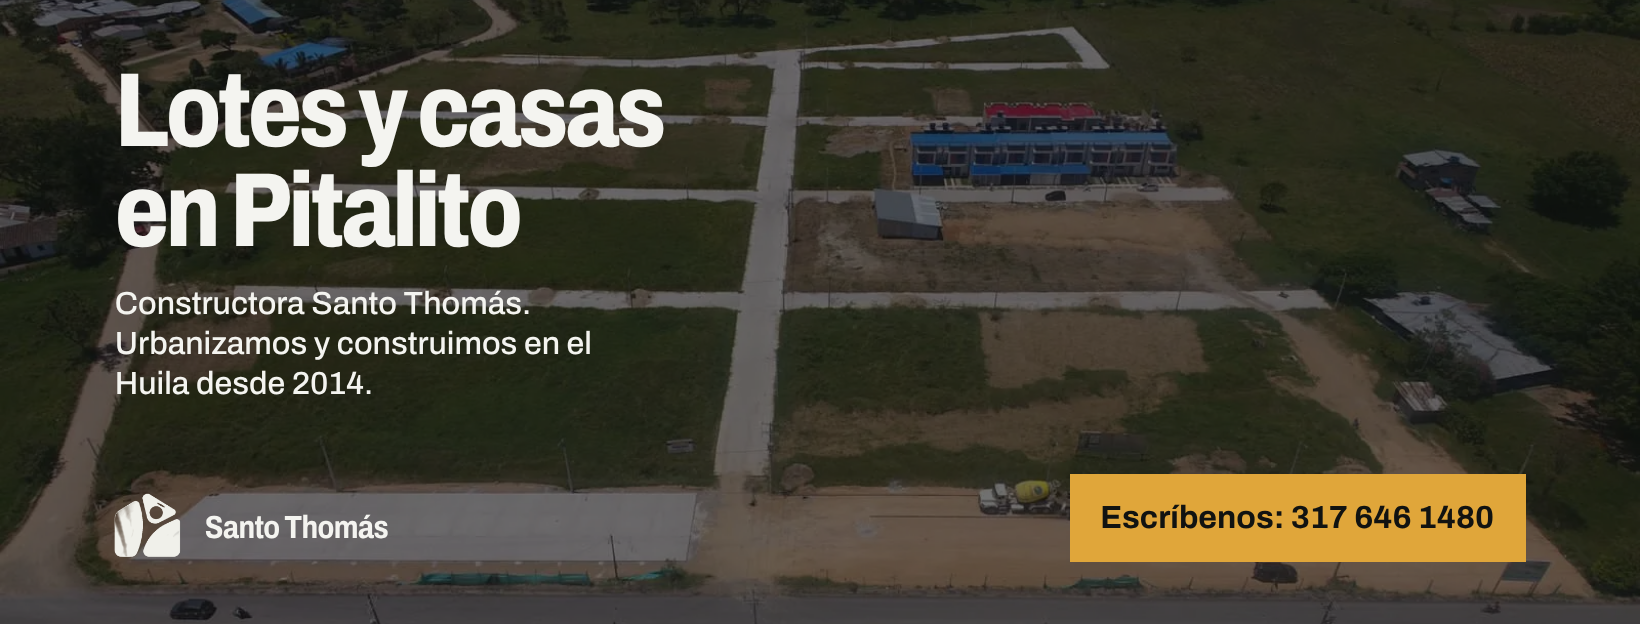
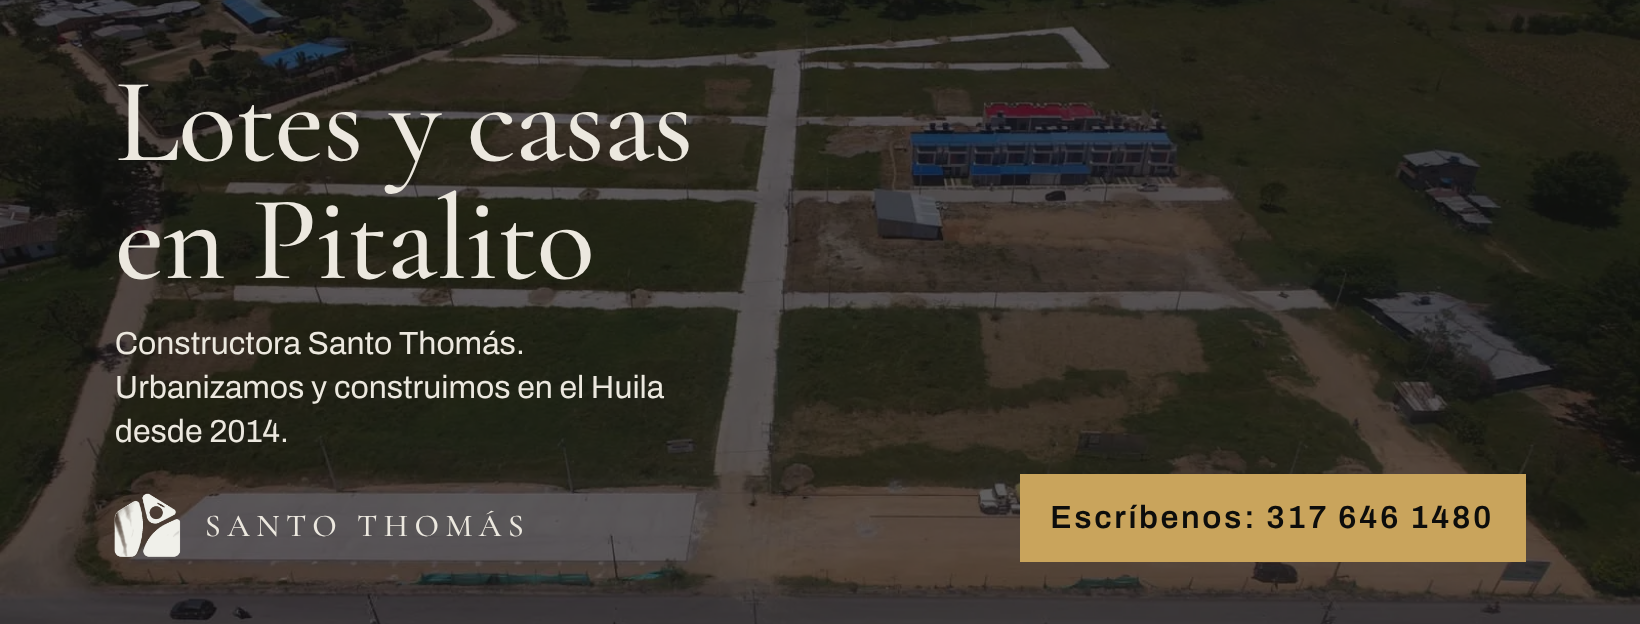
Restyle Santo Thomás redesign to a dark luxury-minimal look
Black ground, ivory text, muted gold accent and a display serif close to
the logo wordmark; full-screen hero photo; generative plan and banners
re-rendered in the same palette.

Claude-Session: https://claude.ai/code/session_01EuNx7qHGaqCun31qjyEdxN

diff --git a/santo-thomas/index.html b/santo-thomas/index.html
@@ -12,12 +12,12 @@
 <meta property="og:description" content="Lotes residenciales y comerciales, casas, locales y apartamentos en Pitalito, Huila. Desde 2014.">
 <meta property="og:image" content="https://www.constructurasantothomas.com/banners/foto-1200x630.png">
 <meta property="og:url" content="https://www.constructurasantothomas.com/">
-<meta name="theme-color" content="#111311">
+<meta name="theme-color" content="#0d0d0c">
 <link rel="icon" type="image/png" href="img/favicon.png">
 <link rel="apple-touch-icon" href="img/favicon.png">
 <link rel="preconnect" href="https://fonts.googleapis.com">
 <link rel="preconnect" href="https://fonts.gstatic.com" crossorigin>
-<link href="https://fonts.googleapis.com/css2?family=Archivo:wdth,wght@75..100,400..800&display=swap" rel="stylesheet">
+<link href="https://fonts.googleapis.com/css2?family=Cormorant+Garamond:wght@400;500;600&family=Archivo:wght@400;500;600&display=swap" rel="stylesheet">
 <link rel="preload" as="image" href="img/aerea-loteo.webp" imagesrcset="img/aerea-loteo-800.webp 800w, img/aerea-loteo.webp 1600w" imagesizes="100vw">
 <script type="application/ld+json">
 {
@@ -43,64 +43,67 @@
 </script>
 <style>
 :root{
-  --cal:#f4f4f0; --cal-2:#e8e8e1; --tinta:#111311; --campo:#1f3b2b; --campo-osc:#16271c;
-  --arena:#d9c9a0; --oro:#e0a63a; --oro-osc:#c98f24;
+  --cal:#ece8df; --cal-2:#dfdbd0; --tinta:#0d0d0c; --campo:#1f1f1c; --campo-osc:#151513;
+  --arena:#cfc6ae; --oro:#c9a45c; --oro-osc:#b08d48;
   --m:clamp(20px,2.2vw,32px);
-  --seccion:clamp(88px,12vw,180px);
-  --t-display:clamp(40px,8.6vw,132px);
-  --t-h2:clamp(31px,4.8vw,70px);
+  --seccion:clamp(96px,14vw,210px);
+  --t-display:clamp(46px,8.4vw,136px);
+  --t-h2:clamp(36px,5vw,76px);
   --t-decl:clamp(22px,2.3vw,34px);
   --t-texto:18px; --t-nota:15px;
   --salir:cubic-bezier(.2,.7,.2,1);
 }
 *,*::before,*::after{box-sizing:border-box}
 html{scroll-behavior:smooth;-webkit-text-size-adjust:100%}
-body{margin:0;background:var(--cal);color:var(--tinta);font-family:Archivo,system-ui,sans-serif;font-size:var(--t-texto);line-height:1.5;font-stretch:100%}
+body{margin:0;background:var(--tinta);color:var(--cal);font-family:Archivo,system-ui,sans-serif;font-size:var(--t-texto);line-height:1.6;font-weight:400}
 img{display:block;max-width:100%;height:auto}
+body{position:relative}
 a{color:inherit}
 h1,h2,p,figure,ul{margin:0}
 ul{padding:0;list-style:none}
-h1,h2{font-weight:750;font-stretch:84%;letter-spacing:-.035em;line-height:.96;text-wrap:balance}
+h1,h2{font-family:'Cormorant Garamond',Georgia,serif;font-weight:500;letter-spacing:-.012em;line-height:1;text-wrap:balance}
 h1{font-size:var(--t-display)}
 h2{font-size:var(--t-h2)}
-.decl{font-size:var(--t-decl);line-height:1.22;font-weight:500;letter-spacing:-.015em;max-width:36ch}
+.decl{font-family:'Cormorant Garamond',Georgia,serif;font-size:calc(var(--t-decl)*1.12);line-height:1.2;font-weight:400;max-width:34ch}
 .nota{font-size:var(--t-nota);line-height:1.4}
 .wrap{padding-inline:var(--m)}
 .seccion{padding-block:var(--seccion)}
 :focus-visible{outline:3px solid var(--oro);outline-offset:3px}
 ::selection{background:var(--oro);color:var(--tinta)}
 .salto{position:absolute;left:-999px}
-.salto:focus{left:var(--m);top:8px;background:var(--tinta);color:var(--cal);padding:10px 14px;z-index:9}
+.salto:focus{left:var(--m);top:8px;background:var(--cal);color:var(--tinta);padding:10px 14px;z-index:9}
 
 /* Botón: plano, cuadrado, un solo color */
-.btn{display:inline-flex;align-items:center;justify-content:center;min-height:52px;padding:0 26px;background:var(--oro);color:var(--tinta);font-weight:650;font-size:17px;text-decoration:none;border:0;cursor:pointer;font-family:inherit;transition:background .18s,transform .12s}
+.btn{display:inline-flex;align-items:center;justify-content:center;min-height:54px;padding:0 30px;background:var(--oro);color:var(--tinta);font-weight:600;font-size:13px;letter-spacing:.16em;text-transform:uppercase;text-decoration:none;border:0;cursor:pointer;font-family:inherit;transition:background .18s,transform .12s}
 .btn:hover{background:var(--oro-osc)}
 .btn:active{transform:translateY(2px)}
 .enlace{text-decoration:underline;text-decoration-thickness:2px;text-underline-offset:4px;transition:text-decoration-color .18s}
 .enlace:hover{text-decoration-color:var(--oro)}
 
-/* Barra */
-.barra{display:flex;align-items:center;gap:var(--m);padding:14px var(--m);flex-wrap:wrap}
-.barra .marca{margin-right:auto;display:flex;align-items:center;gap:12px;text-decoration:none;font-weight:700;font-stretch:84%;font-size:21px;letter-spacing:-.02em}
-.barra .marca img{width:40px;height:auto}
-.barra nav ul{display:flex;gap:clamp(16px,2.4vw,36px)}
-.barra nav a{text-decoration:none;font-size:17px;padding:8px 0;display:block}
-.barra nav a:hover{text-decoration:underline;text-decoration-thickness:2px;text-underline-offset:6px}
-.barra .btn{min-height:44px;padding:0 18px;font-size:16px}
+/* Barra: sobre la foto de portada, sin caja */
+.barra{position:absolute;top:0;left:0;right:0;z-index:3;display:flex;align-items:center;gap:var(--m);padding:22px var(--m);flex-wrap:wrap}
+.barra .marca{margin-right:auto;display:flex;align-items:center;gap:14px;text-decoration:none;font-family:'Cormorant Garamond',Georgia,serif;font-weight:500;font-size:21px;letter-spacing:.2em;text-transform:uppercase}
+.barra .marca img{width:38px;height:auto}
+.barra nav ul{display:flex;gap:clamp(18px,2.6vw,40px)}
+.barra nav a{text-decoration:none;font-size:13px;letter-spacing:.16em;text-transform:uppercase;padding:8px 0;display:block;transition:color .18s}
+.barra nav a:hover{color:var(--oro)}
+.barra .btn{min-height:44px;padding:0 20px;font-size:12px;background:transparent;color:var(--cal);box-shadow:inset 0 0 0 1px var(--oro)}
+.barra .btn:hover{background:var(--oro);color:var(--tinta)}
 
-/* Portada */
-.portada{padding-top:clamp(20px,4vw,56px)}
-.portada .cabeza{display:grid;grid-template-columns:1fr;gap:28px;align-items:end;padding-bottom:clamp(24px,3vw,44px)}
-.portada .apoyo{display:grid;gap:22px;justify-items:start;max-width:34ch}
-.portada .foto{overflow:hidden;height:min(62vh,760px);min-height:300px;background:var(--campo)}
+/* Portada: la foto ocupa toda la pantalla; el texto abajo a la izquierda */
+.portada{position:relative;min-height:100svh;display:grid;align-items:end}
+.portada .foto{position:absolute;inset:0;overflow:hidden;background:var(--campo-osc)}
 .portada .foto img{width:100%;height:100%;object-fit:cover;object-position:50% 58%}
-@media(min-width:900px){.portada .cabeza{grid-template-columns:minmax(0,1.9fr) minmax(0,1fr)}}
+.portada .foto::after{content:"";position:absolute;inset:0;background:rgba(13,13,12,.62)}
+.portada .cabeza{position:relative;z-index:1;display:grid;grid-template-columns:1fr;gap:28px;align-items:end;padding-top:140px;padding-bottom:clamp(40px,7vh,88px)}
+.portada .apoyo{display:grid;gap:26px;justify-items:start;max-width:36ch}
+@media(min-width:900px){.portada .cabeza{grid-template-columns:minmax(0,1.7fr) minmax(0,1fr)}}
 
 /* Proyectos: cada uno con su propia composición */
 .titulo-sec{padding-bottom:clamp(32px,5vw,72px)}
 .proy{display:grid;gap:var(--m);grid-template-columns:repeat(12,minmax(0,1fr));align-items:start}
 .proy + .proy{margin-top:clamp(72px,9vw,140px)}
-.proy figure{overflow:hidden;background:var(--cal-2)}
+.proy figure{overflow:hidden;background:var(--campo)}
 .proy figure img{width:100%;height:100%;object-fit:cover;transition:transform .7s var(--salir)}
 .proy figure:hover img{transform:scale(1.03)}
 .proy .txt{display:grid;gap:18px;align-content:start}
@@ -124,7 +127,7 @@ h2{font-size:var(--t-h2)}
 }
 
 /* Torre: campo negro, la imagen vertical manda */
-.torre-sec{background:var(--tinta);color:var(--cal);margin-top:var(--seccion)}
+.torre-sec{background:var(--campo-osc);color:var(--cal)}
 .torre{display:grid;gap:var(--m);grid-template-columns:repeat(12,minmax(0,1fr));align-items:end}
 .torre > *{grid-column:1/-1}
 .torre figure{overflow:hidden}
@@ -138,7 +141,7 @@ h2{font-size:var(--t-h2)}
 }
 
 /* Obra: campo verde, tres fotos verticales del mismo corte */
-.obra-sec{background:var(--campo);color:var(--cal)}
+.obra-sec{background:var(--tinta);color:var(--cal)}
 .obra-cab{display:grid;gap:24px;padding-bottom:clamp(32px,5vw,64px)}
 @media(min-width:900px){.obra-cab{grid-template-columns:1.4fr 1fr;align-items:end}}
 .tira{display:grid;grid-auto-flow:column;grid-auto-columns:minmax(0,1fr);gap:var(--m)}
@@ -156,8 +159,8 @@ h2{font-size:var(--t-h2)}
 @media(min-width:900px){.busca{grid-template-columns:minmax(0,5fr) minmax(0,7fr)}}
 .busca form{display:grid;gap:26px;justify-items:start}
 .opciones{display:grid;gap:6px;width:100%}
-.opciones label{display:flex;align-items:center;gap:16px;padding:16px 18px;background:var(--campo);cursor:pointer;font-size:clamp(20px,1.9vw,26px);font-weight:600;font-stretch:88%;transition:background .18s,color .18s,transform .12s}
-.opciones label:hover{background:#28503a}
+.opciones label{display:flex;align-items:center;gap:16px;padding:16px 18px;background:var(--campo);cursor:pointer;font-family:'Cormorant Garamond',Georgia,serif;font-size:clamp(23px,2.1vw,30px);font-weight:500;transition:background .18s,color .18s,transform .12s}
+.opciones label:hover{background:#2a2a26}
 .opciones label:active{transform:translateY(1px)}
 .opciones input{appearance:none;width:18px;height:18px;margin:0;background:var(--campo-osc);flex:none}
 .opciones input:checked{background:var(--tinta)}
@@ -171,35 +174,36 @@ h2{font-size:var(--t-h2)}
 .empresa{display:grid;gap:clamp(28px,4vw,56px);grid-template-columns:repeat(12,minmax(0,1fr));align-items:start}
 .empresa > *{grid-column:1/-1}
 .empresa .txt{display:grid;gap:22px}
+.empresa-sec{background:var(--cal);color:var(--tinta)}
 .empresa figure{overflow:hidden;aspect-ratio:4/3;background:var(--cal-2)}
 .empresa figure img{width:100%;height:100%;object-fit:cover}
 @media(min-width:900px){.empresa .txt{grid-column:1/7}.empresa figure{grid-column:8/13}}
 
 /* Preguntas: bloques de tono, sin líneas */
-.preg-sec{background:var(--cal-2)}
+.preg-sec{background:var(--cal-2);color:var(--tinta)}
 .preg{display:grid;gap:clamp(28px,4vw,56px)}
 @media(min-width:900px){.preg{grid-template-columns:minmax(0,5fr) minmax(0,7fr);align-items:start}}
 .preg details{background:var(--cal);margin-bottom:6px}
-.preg summary{cursor:pointer;list-style:none;padding:20px 22px;font-weight:650;font-size:20px;display:flex;justify-content:space-between;gap:16px;transition:background .18s}
+.preg summary{cursor:pointer;list-style:none;padding:22px 24px;font-family:'Cormorant Garamond',Georgia,serif;font-weight:500;font-size:25px;display:flex;justify-content:space-between;gap:16px;transition:background .18s}
 .preg summary::-webkit-details-marker{display:none}
 .preg summary::after{content:"+";font-weight:500;font-size:26px;line-height:1;transition:transform .25s var(--salir)}
 .preg details[open] summary::after{transform:rotate(45deg)}
-.preg summary:hover{background:#fbfbf8}
-.preg details p{padding:0 22px 22px;max-width:58ch}
+.preg summary:hover{background:#f5f2ea}
+.preg details p{padding:0 24px 24px;max-width:58ch}
 
 /* Cierre */
 .cierre{background:var(--tinta);color:var(--cal);padding-top:var(--seccion)}
 .cierre .datos{display:grid;gap:clamp(28px,4vw,56px);padding-bottom:clamp(56px,8vw,110px)}
 @media(min-width:900px){.cierre .datos{grid-template-columns:minmax(0,7fr) minmax(0,5fr);align-items:end}}
-.cierre .tel{font-size:var(--t-h2);font-weight:750;font-stretch:84%;letter-spacing:-.035em;line-height:1;text-decoration:none;display:inline-block;margin-block:18px 26px;font-variant-numeric:tabular-nums;transition:color .18s}
+.cierre .tel{font-family:'Cormorant Garamond',Georgia,serif;font-size:var(--t-h2);font-weight:500;font-variant-numeric:lining-nums;line-height:1;text-decoration:none;display:inline-block;margin-block:18px 26px;font-variant-numeric:tabular-nums;transition:color .18s}
 .cierre .tel:hover{color:var(--oro)}
 .cierre address{font-style:normal;display:grid;gap:14px}
-.cierre .logo{width:100%;max-width:1100px;margin-inline:auto;padding:0 var(--m) clamp(40px,6vw,80px)}
-.cierre .pie{padding:18px var(--m);background:#1b1d1b;display:flex;flex-wrap:wrap;gap:8px 24px;justify-content:space-between}
+.cierre .logo{width:100%;max-width:760px;margin-inline:auto;padding:0 var(--m) clamp(40px,6vw,80px)}
+.cierre .pie{padding:18px var(--m);background:var(--campo-osc);display:flex;flex-wrap:wrap;gap:8px 24px;justify-content:space-between}
 
 /* WhatsApp fijo en teléfono */
 .flota{position:fixed;right:14px;bottom:14px;z-index:5;display:none}
-@media(max-width:899px){.flota{display:inline-flex}.barra .btn{display:none}.barra nav{width:100%}.barra nav ul{justify-content:space-between}}
+@media(max-width:899px){.flota{display:inline-flex}.barra .btn{display:none}.barra nav{width:100%}.barra nav ul{justify-content:space-between}.barra nav a{font-size:12px;letter-spacing:.12em}.portada .cabeza{padding-top:170px}}
 
 /* Movimiento: solo si hay script; el contenido nunca queda oculto sin él */
 @media(prefers-reduced-motion:no-preference){
@@ -217,7 +221,7 @@ h2{font-size:var(--t-h2)}
 
 <header class="barra">
   <a class="marca" href="#inicio" aria-label="Constructora Santo Thomás, inicio">
-    <img src="img/isotipo-oscuro.png" width="280" height="264" alt="">
+    <img src="img/isotipo-claro.png" width="280" height="264" alt="">
     Santo Thomás
   </a>
   <nav aria-label="Principal">
@@ -353,7 +357,7 @@ h2{font-size:var(--t-h2)}
   </div>
 </section>
 
-<section class="seccion wrap" id="empresa">
+<section class="seccion wrap empresa-sec" id="empresa">
   <div class="empresa" data-grupo>
     <div class="txt">
       <h2 data-sube>Una constructora de Pitalito</h2>

diff --git a/santo-thomas/arte/loteo.html b/santo-thomas/arte/loteo.html
@@ -391,22 +391,22 @@
                 <div class="color-group">
                     <label>Predio</label>
                     <div class="color-picker-container">
-                        <input type="color" id="color1" value="#1f3b2b" onchange="updateColor('color1', this.value)">
-                        <span class="color-value" id="color1-value">#1f3b2b</span>
+                        <input type="color" id="color1" value="#171715" onchange="updateColor('color1', this.value)">
+                        <span class="color-value" id="color1-value">#171715</span>
                     </div>
                 </div>
                 <div class="color-group">
                     <label>Vía</label>
                     <div class="color-picker-container">
-                        <input type="color" id="color2" value="#d9c9a0" onchange="updateColor('color2', this.value)">
-                        <span class="color-value" id="color2-value">#d9c9a0</span>
+                        <input type="color" id="color2" value="#cfc6ae" onchange="updateColor('color2', this.value)">
+                        <span class="color-value" id="color2-value">#cfc6ae</span>
                     </div>
                 </div>
                 <div class="color-group">
                     <label>Acento</label>
                     <div class="color-picker-container">
-                        <input type="color" id="color3" value="#e0a63a" onchange="updateColor('color3', this.value)">
-                        <span class="color-value" id="color3-value">#e0a63a</span>
+                        <input type="color" id="color3" value="#c9a45c" onchange="updateColor('color3', this.value)">
+                        <span class="color-value" id="color3-value">#c9a45c</span>
                     </div>
                 </div>
             </div>
@@ -542,8 +542,8 @@
   }
 
   var STYLE = {
-    suelo: '#16271c', predio: '#1f3b2b', lote: ['#2a4a36', '#2f523b', '#274633'],
-    verde: '#3f7a4d', via: '#d9c9a0', casa: '#f4f4f0', torre: '#f4f4f0', acento: '#e0a63a', atenuar: 0.28
+    suelo: '#0d0d0c', predio: '#171715', lote: ['#1f1f1c', '#252522', '#1b1b19'],
+    verde: '#2c3527', via: '#cfc6ae', casa: '#ece8df', torre: '#ece8df', acento: '#c9a45c', atenuar: 0.28
   };
 
   // t: avance de la obra entre 0 y 1. destacado: tipo de lote a resaltar o null.
@@ -573,7 +573,7 @@
       ctx.fillRect(l.x + inset, l.y + inset, l.w - 2 * inset, l.h - 2 * inset);
       if (l.kind === 'torre') {
         var m = Math.min(l.w, l.h) * 0.22;
-        ctx.fillStyle = hi ? '#16271c' : s.torre;
+        ctx.fillStyle = hi ? s.suelo : s.torre;
         ctx.fillRect(l.x + m, l.y + m, l.w - 2 * m, l.h - 2 * m);
         ctx.fillStyle = hi ? s.acento : s.predio;
         ctx.fillRect(l.x + m * 1.6, l.y + m * 1.6, l.w - 3.2 * m, l.h - 3.2 * m);
@@ -601,7 +601,7 @@
         let params = {
             seed: 2014,
             manzana: 15000, frente: 24, via: 24, verdes: 0.1, construido: 0.3, irregular: 0.22, velocidad: 1,
-            colorPalette: ['#1f3b2b', '#d9c9a0', '#e0a63a']
+            colorPalette: ['#171715', '#cfc6ae', '#c9a45c']
         };
         let defaultParams = {...params, colorPalette: [...params.colorPalette]};
         let plan = null, avance = 0;
@@ -619,9 +619,9 @@
             const base = color(params.colorPalette[0]);
             const mix = (c, k) => lerpColor(base, color(c), k).toString('#rrggbb');
             return {
-                suelo: mix('#000000', 0.38), predio: params.colorPalette[0],
+                suelo: mix('#000000', 0.45), predio: params.colorPalette[0],
                 lote: [mix('#ffffff', 0.07), mix('#ffffff', 0.13), mix('#000000', 0.08), mix('#ffffff', 0.03)],
-                verde: mix('#7fd08a', 0.42), via: params.colorPalette[1], casa: '#f4f4f0', torre: '#f4f4f0',
+                verde: mix('#6f9a5c', 0.22), via: params.colorPalette[1], casa: '#ece8df', torre: '#ece8df',
                 acento: params.colorPalette[2], atenuar: 0.28
             };
         }

diff --git a/santo-thomas/banners/banners.html b/santo-thomas/banners/banners.html
@@ -3,28 +3,28 @@
 <head>
 <meta charset="UTF-8">
 <title>Banners · Constructora Santo Thomás</title>
-<link href="https://fonts.googleapis.com/css2?family=Archivo:wdth,wght@75..100,400..800&display=swap" rel="stylesheet">
+<link href="https://fonts.googleapis.com/css2?family=Cormorant+Garamond:wght@400;500;600&family=Archivo:wght@400;500;600&display=swap" rel="stylesheet">
 <style>
 /* Fuente de los banners. Uso: banners.html?estilo=foto|tipografia|loteo&w=1080&h=1080 */
-:root{--cal:#f4f4f0;--tinta:#111311;--campo:#1f3b2b;--campo-osc:#16271c;--oro:#e0a63a}
+:root{--cal:#ece8df;--tinta:#0d0d0c;--campo:#1f1f1c;--campo-osc:#0d0d0c;--oro:#c9a45c}
 *{box-sizing:border-box;margin:0}
 body{background:#888;font-family:Archivo,sans-serif}
 #b{position:relative;overflow:hidden;container-type:size;color:var(--cal)}
 #b .zona{position:absolute;inset:10cqh 7cqw;display:flex;flex-direction:column;justify-content:space-between} /* zona segura */
-h1{font-weight:780;font-stretch:82%;letter-spacing:-.035em;line-height:.94;font-size:calc(var(--u)*13.5);max-width:12ch;text-wrap:balance}
-.sub{font-size:max(16px,calc(var(--u)*3.6));line-height:1.25;font-weight:500;max-width:30ch;margin-top:calc(var(--u)*3)}
+h1{font-family:'Cormorant Garamond',serif;font-weight:500;letter-spacing:-.012em;line-height:.98;font-size:calc(var(--u)*15.5);max-width:12ch;text-wrap:balance}
+.sub{font-size:max(16px,calc(var(--u)*3.4));line-height:1.35;font-weight:400;max-width:30ch;margin-top:calc(var(--u)*3)}
 .fila{display:flex;align-items:flex-end;justify-content:space-between;gap:4cqw}
-.marca{display:flex;align-items:center;gap:calc(var(--u)*2);font-weight:700;font-stretch:84%;font-size:max(16px,calc(var(--u)*4));letter-spacing:-.02em}
+.marca{display:flex;align-items:center;gap:calc(var(--u)*2);font-family:'Cormorant Garamond',serif;font-weight:500;font-size:max(16px,calc(var(--u)*3.6));letter-spacing:.2em;text-transform:uppercase}
 .marca img{height:calc(var(--u)*9);width:auto}
-.cta{background:var(--oro);color:var(--tinta);font-weight:700;font-size:max(16px,calc(var(--u)*3.8));min-height:44px;padding:calc(var(--u)*2.4) calc(var(--u)*4);display:flex;align-items:center;white-space:nowrap}
+.cta{background:var(--oro);color:var(--tinta);font-weight:600;letter-spacing:.08em;font-size:max(16px,calc(var(--u)*3.2));min-height:44px;padding:calc(var(--u)*2.4) calc(var(--u)*4);display:flex;align-items:center;white-space:nowrap}
 /* A · Foto */
 .foto{background:var(--tinta)}
 .foto .img{position:absolute;inset:0;background:url(../img/aerea-loteo.webp) 50% 55%/cover}
-.foto .velo{position:absolute;inset:0;background:rgba(10,14,11,.58)}
+.foto .velo{position:absolute;inset:0;background:rgba(13,13,12,.66)}
 /* B · Tipografía */
 .tipografia{background:var(--tinta)}
-.tipografia h1{font-size:calc(var(--u)*17);max-width:11ch}
-.tipografia .bloque{position:absolute;right:0;top:0;bottom:0;width:calc(var(--u)*3);background:var(--oro)}
+.tipografia h1{font-size:calc(var(--u)*20);max-width:11ch}
+.tipografia .bloque{position:absolute;right:0;top:0;bottom:0;width:calc(var(--u)*1.2);background:var(--oro)}
 /* C · Loteo */
 .loteo{background:var(--campo-osc)}
 .loteo canvas{position:absolute;inset:0;width:100%;height:100%}
@@ -65,7 +65,7 @@ if (e !== 'loteo') { b.querySelector('#c').remove(); b.querySelector('.panel').r
 else {
   var c = document.getElementById('c'); c.width = w * 2; c.height = h * 2;
   var plan = Loteo.generate(+q.get('semilla') || 2014, c.width, c.height, { construido: 0.4 });
-  Loteo.draw(c.getContext('2d'), plan, 1, Object.assign({}, Loteo.STYLE, { casa: '#e0a63a' }), null, true);
+  Loteo.draw(c.getContext('2d'), plan, 1, Object.assign({}, Loteo.STYLE, { casa: '#c9a45c' }), null, true);
 }
 </script>
 </body>

diff --git a/santo-thomas/arte/loteo-core.js b/santo-thomas/arte/loteo-core.js
@@ -106,8 +106,8 @@
   }
 
   var STYLE = {
-    suelo: '#16271c', predio: '#1f3b2b', lote: ['#2a4a36', '#2f523b', '#274633'],
-    verde: '#3f7a4d', via: '#d9c9a0', casa: '#f4f4f0', torre: '#f4f4f0', acento: '#e0a63a', atenuar: 0.28
+    suelo: '#0d0d0c', predio: '#171715', lote: ['#1f1f1c', '#252522', '#1b1b19'],
+    verde: '#2c3527', via: '#cfc6ae', casa: '#ece8df', torre: '#ece8df', acento: '#c9a45c', atenuar: 0.28
   };
 
   // t: avance de la obra entre 0 y 1. destacado: tipo de lote a resaltar o null.
@@ -137,7 +137,7 @@
       ctx.fillRect(l.x + inset, l.y + inset, l.w - 2 * inset, l.h - 2 * inset);
       if (l.kind === 'torre') {
         var m = Math.min(l.w, l.h) * 0.22;
-        ctx.fillStyle = hi ? '#16271c' : s.torre;
+        ctx.fillStyle = hi ? s.suelo : s.torre;
         ctx.fillRect(l.x + m, l.y + m, l.w - 2 * m, l.h - 2 * m);
         ctx.fillStyle = hi ? s.acento : s.predio;
         ctx.fillRect(l.x + m * 1.6, l.y + m * 1.6, l.w - 3.2 * m, l.h - 3.2 * m);
